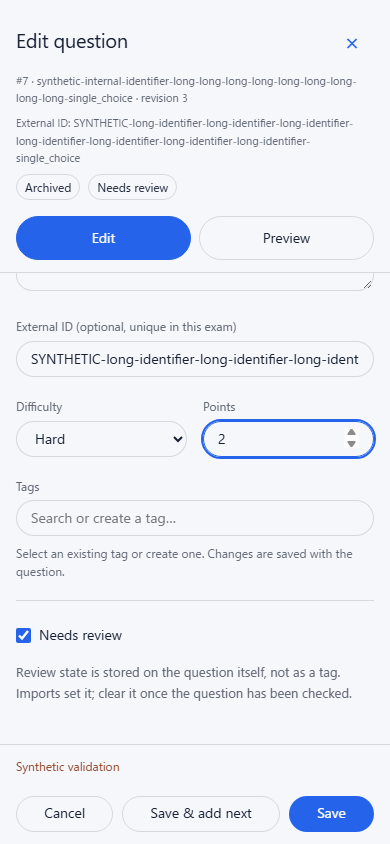
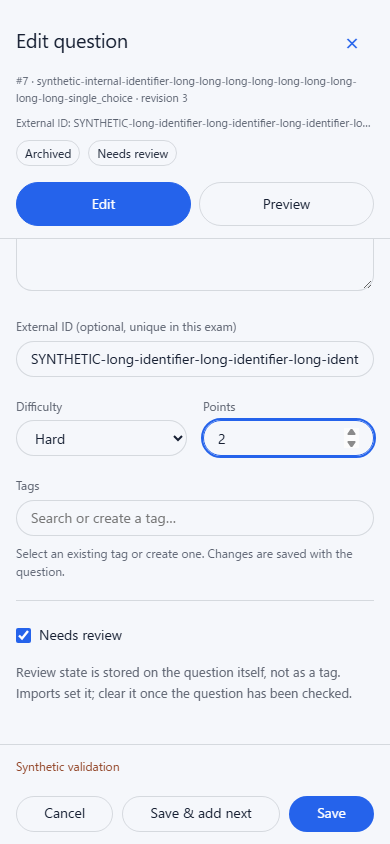
Bound the editor header external ID display

diff --git a/apps/web/src/components/QuestionEditorDialog.tsx b/apps/web/src/components/QuestionEditorDialog.tsx
@@ -263,7 +263,7 @@ function LegacyQuestionEditorDialog({ examId, question, initialType, onClose, on
       <div className="authoring-toolbar"><h3 id="question-editor-title" className="dialog-title">{base ? "Edit question" : "Add question"}</h3>
         <button className="btn btn-ghost question-drawer-close" type="button" aria-label="Close question editor" disabled={busy} onClick={close}>×</button></div>
       {base && <p className="authoring-identifier">#{base.sequenceNumber} · {base.id} · revision {base.revision}</p>}
-      {form.externalId && <p className="authoring-identifier">External ID: {form.externalId}</p>}
+      {form.externalId && <p className="authoring-identifier authoring-external-id" title={form.externalId}>External ID: {form.externalId}</p>}
       {(base?.archivedAt || form.needsReview) && <div className="authoring-question-status">
         {base?.archivedAt && <span>Archived</span>}{form.needsReview && <span>Needs review</span>}
       </div>}

diff --git a/apps/web/src/styles/app.css b/apps/web/src/styles/app.css
@@ -518,6 +518,9 @@ header .exam-selector--compact .exam-selector__menu {
 .authoring-rebased { margin: 0; padding: 10px 12px; border-radius: var(--pd-radius-md); background: var(--color-neutral-100); font-size: 13px; }
 .question-drawer-footer [role=alert] p { margin: 0 0 8px; }
 .authoring-identifier { font-size: 11px; opacity: .7; overflow-wrap: anywhere; user-select: text; }
+/* External IDs have no length cap. Only this fixed-header copy is shortened;
+   the editable field and tooltip retain the full value. */
+.authoring-external-id { overflow: hidden; text-overflow: ellipsis; white-space: nowrap; }
 /* The review flag is a single boolean, so it reads as one clickable row
    rather than a labelled control stacked above its input like the rest. */
 .authoring-checkbox { display: flex; gap: 8px; align-items: center; cursor: pointer; }

diff --git a/docs/screenshots/question-editor-fields.md b/docs/screenshots/question-editor-fields.md
@@ -13,7 +13,9 @@ questions and a dedicated loopback fixture, without a deployed question bank.
 ![Phone metadata layout](question-editor-fields/phone-metadata.png)
 
 The header shows the loaded internal ID/revision and archive state, alongside
-the draft External ID and review flag. Option textareas resize without replacing
+the draft External ID and review flag. The header's External ID uses one line
+with an ellipsis so arbitrarily long values cannot displace the editable pane
+or footer; the complete value remains in its field and tooltip. Option textareas resize without replacing
 their DOM nodes, rewriting values or changing answer IDs. The metadata capture
 also retains the existing general alert from a synthetic rejected save after
 its option-specific error has been corrected.
@@ -33,6 +35,11 @@ visible associated answer labels, 44×44 removal targets, stable IDs and Undo,
 field-error association, long identifiers, draft header status, metadata reflow
 and saved payloads. Adjacent suites retain lazy preview mounting, component
 diagnostics and existing authoring/recovery coverage.
+
+Four further cases load or paste a 5,000-character External ID at phone and short
+landscape sizes. They verify the bounded header, visible internal ID/revision,
+usable editing area, actual Cancel/Save clicks, and an exact saved identifier
+without any validation or stored-data length limit.
 
 Local Chromium screenshots demonstrate visual layout and browser assertions
 check DOM accessibility relationships; they do not represent screen-reader

diff --git a/docs/guides/question-bank-authoring.md b/docs/guides/question-bank-authoring.md
@@ -36,7 +36,9 @@ Difficulty and Points; the review flag includes associated help text.
 The header retains the internal ID and revision, shows the draft External ID
 when present, and displays Archived / Needs review when applicable. Archived
 status comes from the loaded question; External ID and Needs review reflect
-unsaved edits. See the [field layout examples](../screenshots/question-editor-fields.md).
+unsaved edits. Long External IDs use a single line with an ellipsis in the
+header; the complete value stays in the editable field and header tooltip.
+See the [field layout examples](../screenshots/question-editor-fields.md).
 
 **Save** takes effect immediately. **Save & add next** opens an empty question in
 the same exam, retains only its type, and focuses the stem. Failed validation or
